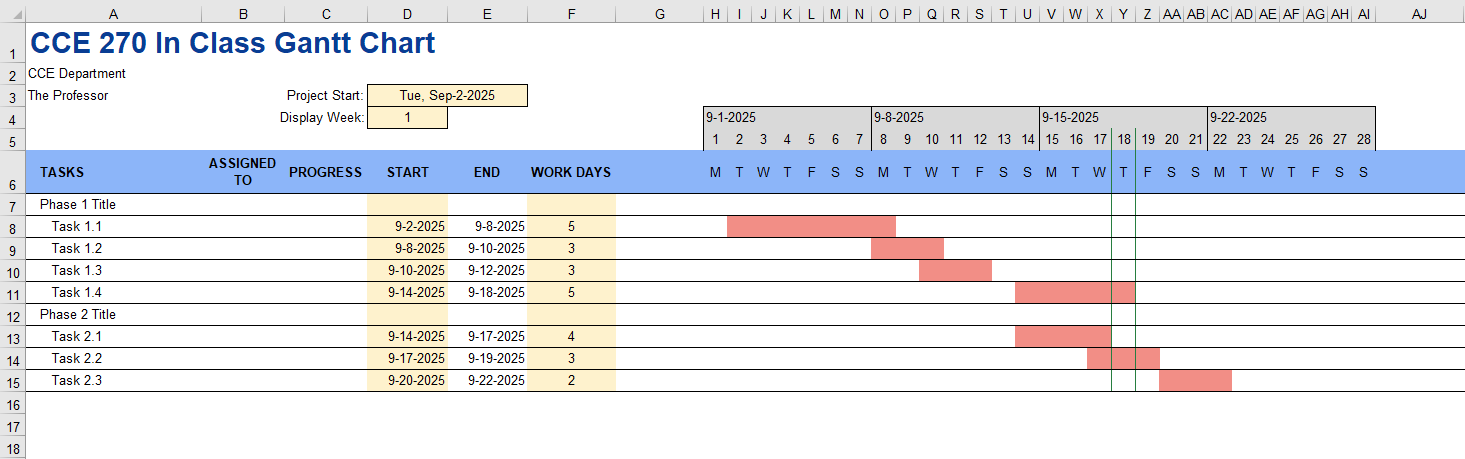
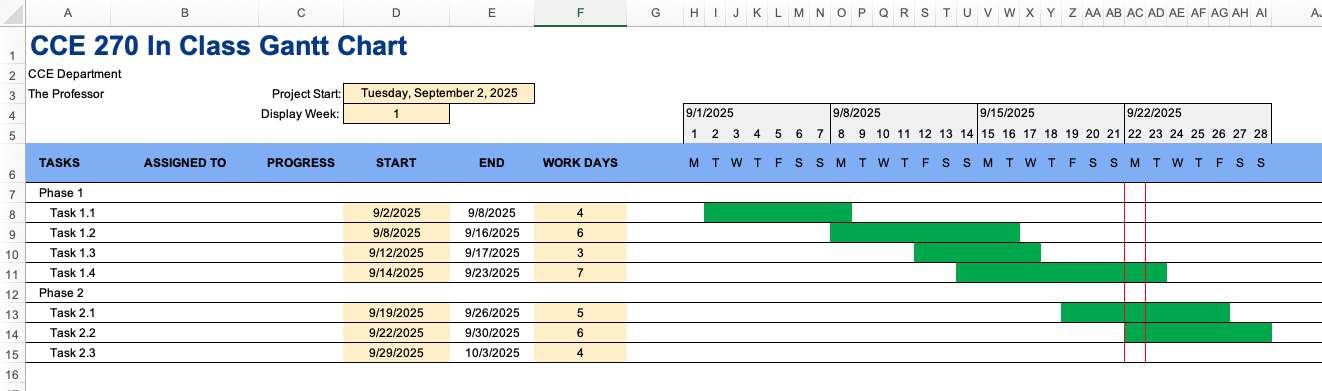
Made the figures consistent. Fixed text at the end.

diff --git a/docs/unit1/5_gantt_charts/gantt_class.md b/docs/unit1/5_gantt_charts/gantt_class.md
@@ -250,11 +250,13 @@ Your chart should now look something like this:
 
 ![gantt_step6.png](images/gantt_step6.png)
 
-Congratulations. You did it! There are many more features you could add to this Gantt chart, but this is a good start. See step 7 below for one more feature you can add. If you want, the  video in the pre-class and associated video's by the same author provide a lot more features you can add.
-
 ---
 
 ## Step 7 - Highlighting Weekends
+
+Finally, in this step you will add conditional formatting to highlight the weekends on the timeline. We will use the 
+NETWORKDAYS() 
+function to determine if a date is a weekend or not. The NETWORKDAYS() function returns the number of workdays between two dates. If the number of workdays is 0, then the date is a weekend.
 
 1. Select H5:AI15.
 2. Add a new conditional formatting rule using "Custom formula is" and enter the following formula
@@ -268,9 +270,10 @@ Your chart should now look something like this with the hatched pattern being on
 
 ![gantt_step7-1.png](images/gantt_step7-1.png)
 
-
 ### More Features 
-The author of the video you watched for your pre-class reading has several more videos on adding more features to a Gantt chart. The following video shows how to hide and unhide the weekends on the timeline. [Make a Gantt Chart in Excel - Part 2: Working with Work Days by Vertex42](https://youtu.be/5or9BN3GanM?si=vqCg6j2NkW6HjevW)
+
+Congratulations. You did it! There are many more features you could add to this Gantt chart, but this is a good 
+start. The author of the video you watched for your pre-class reading has several more videos on adding more features to a Gantt chart. The following video shows how to hide and unhide the weekends on the timeline. [Make a Gantt Chart in Excel - Part 2: Working with Work Days by Vertex42](https://youtu.be/5or9BN3GanM?si=vqCg6j2NkW6HjevW)
 
 Have fun exploring more features you can add to your Gantt chart.
 
